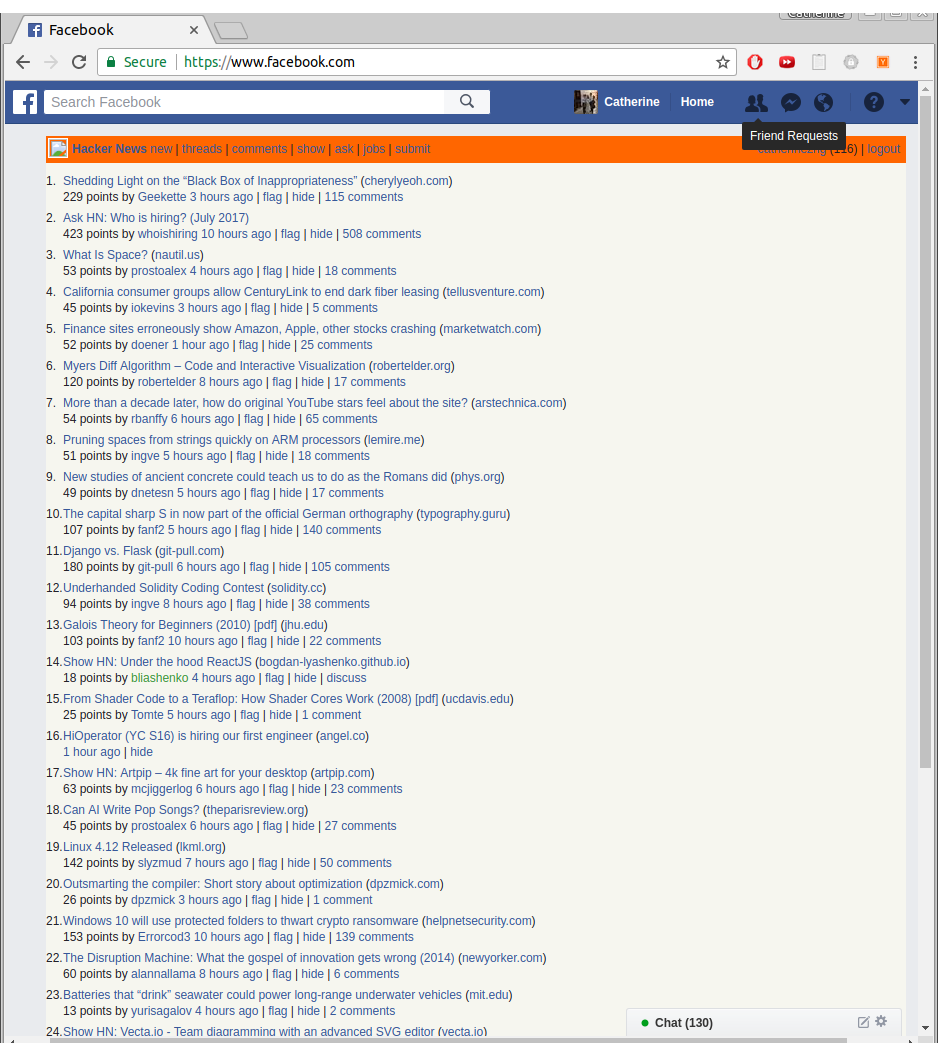
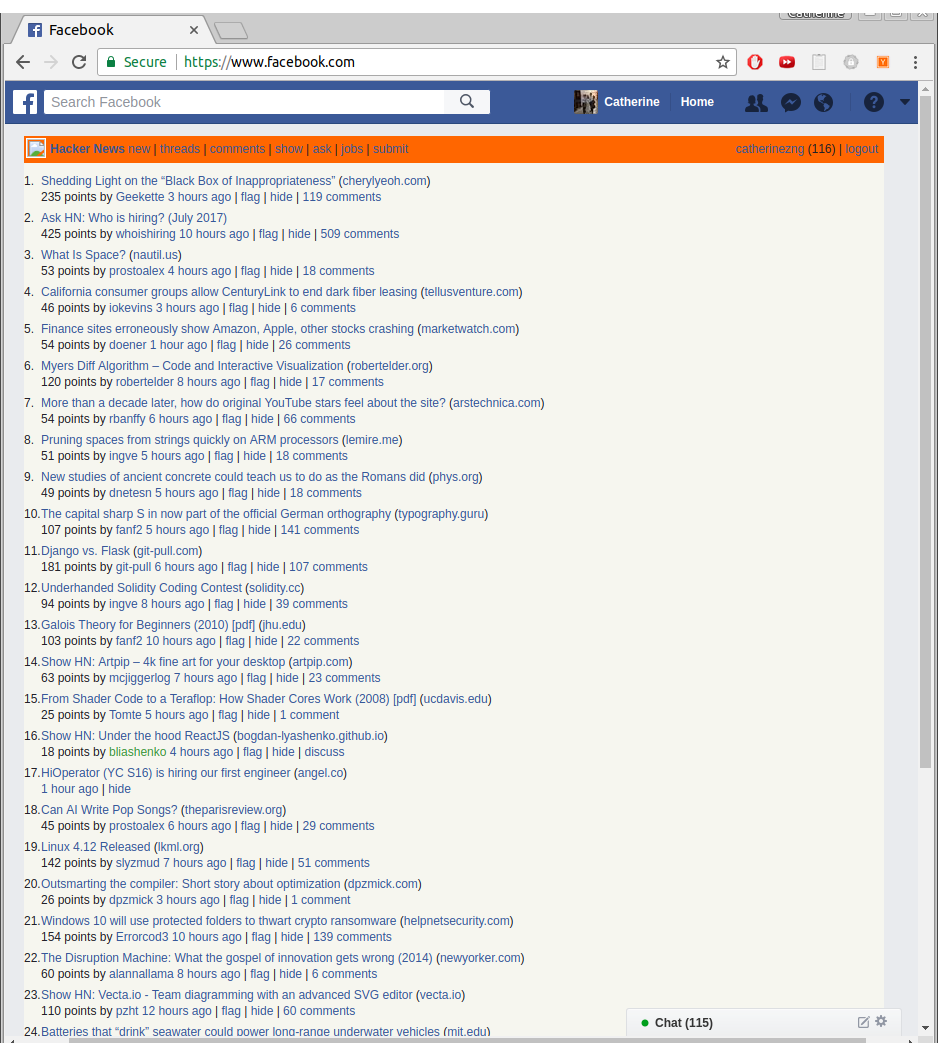
updated readme and screenshot

Changed region(s): [[0.0, 0.125, 0.5874, 1.0], [0.7729, 0.0938, 0.9893, 0.1562]]

diff --git a/README.md b/README.md
@@ -1,9 +1,9 @@
-# Convert your Facebook newsfeed into Hacker News!
+# Convert Facebook newsfeed to Hacker News!
 Are you sick of your ad-ridden Facebook newsfeed? Are you sick of wasting your time on click bait? Or being creeped out by Facebook knowing your search history?
 
-Look no further! hackernews-newsfeed converts your (terrible) Facbeook newsfeed into Hacker News! So that you can waste time AND feel productive!
+Look no further! hackernews-newsfeed converts your Facebook newsfeed into Hacker News! So that you can waste time AND feel productive!
 
-![screenshot](screenshot.png)
+![screenshot](screenshot.png | width = 300)
 
 # Installation
 
